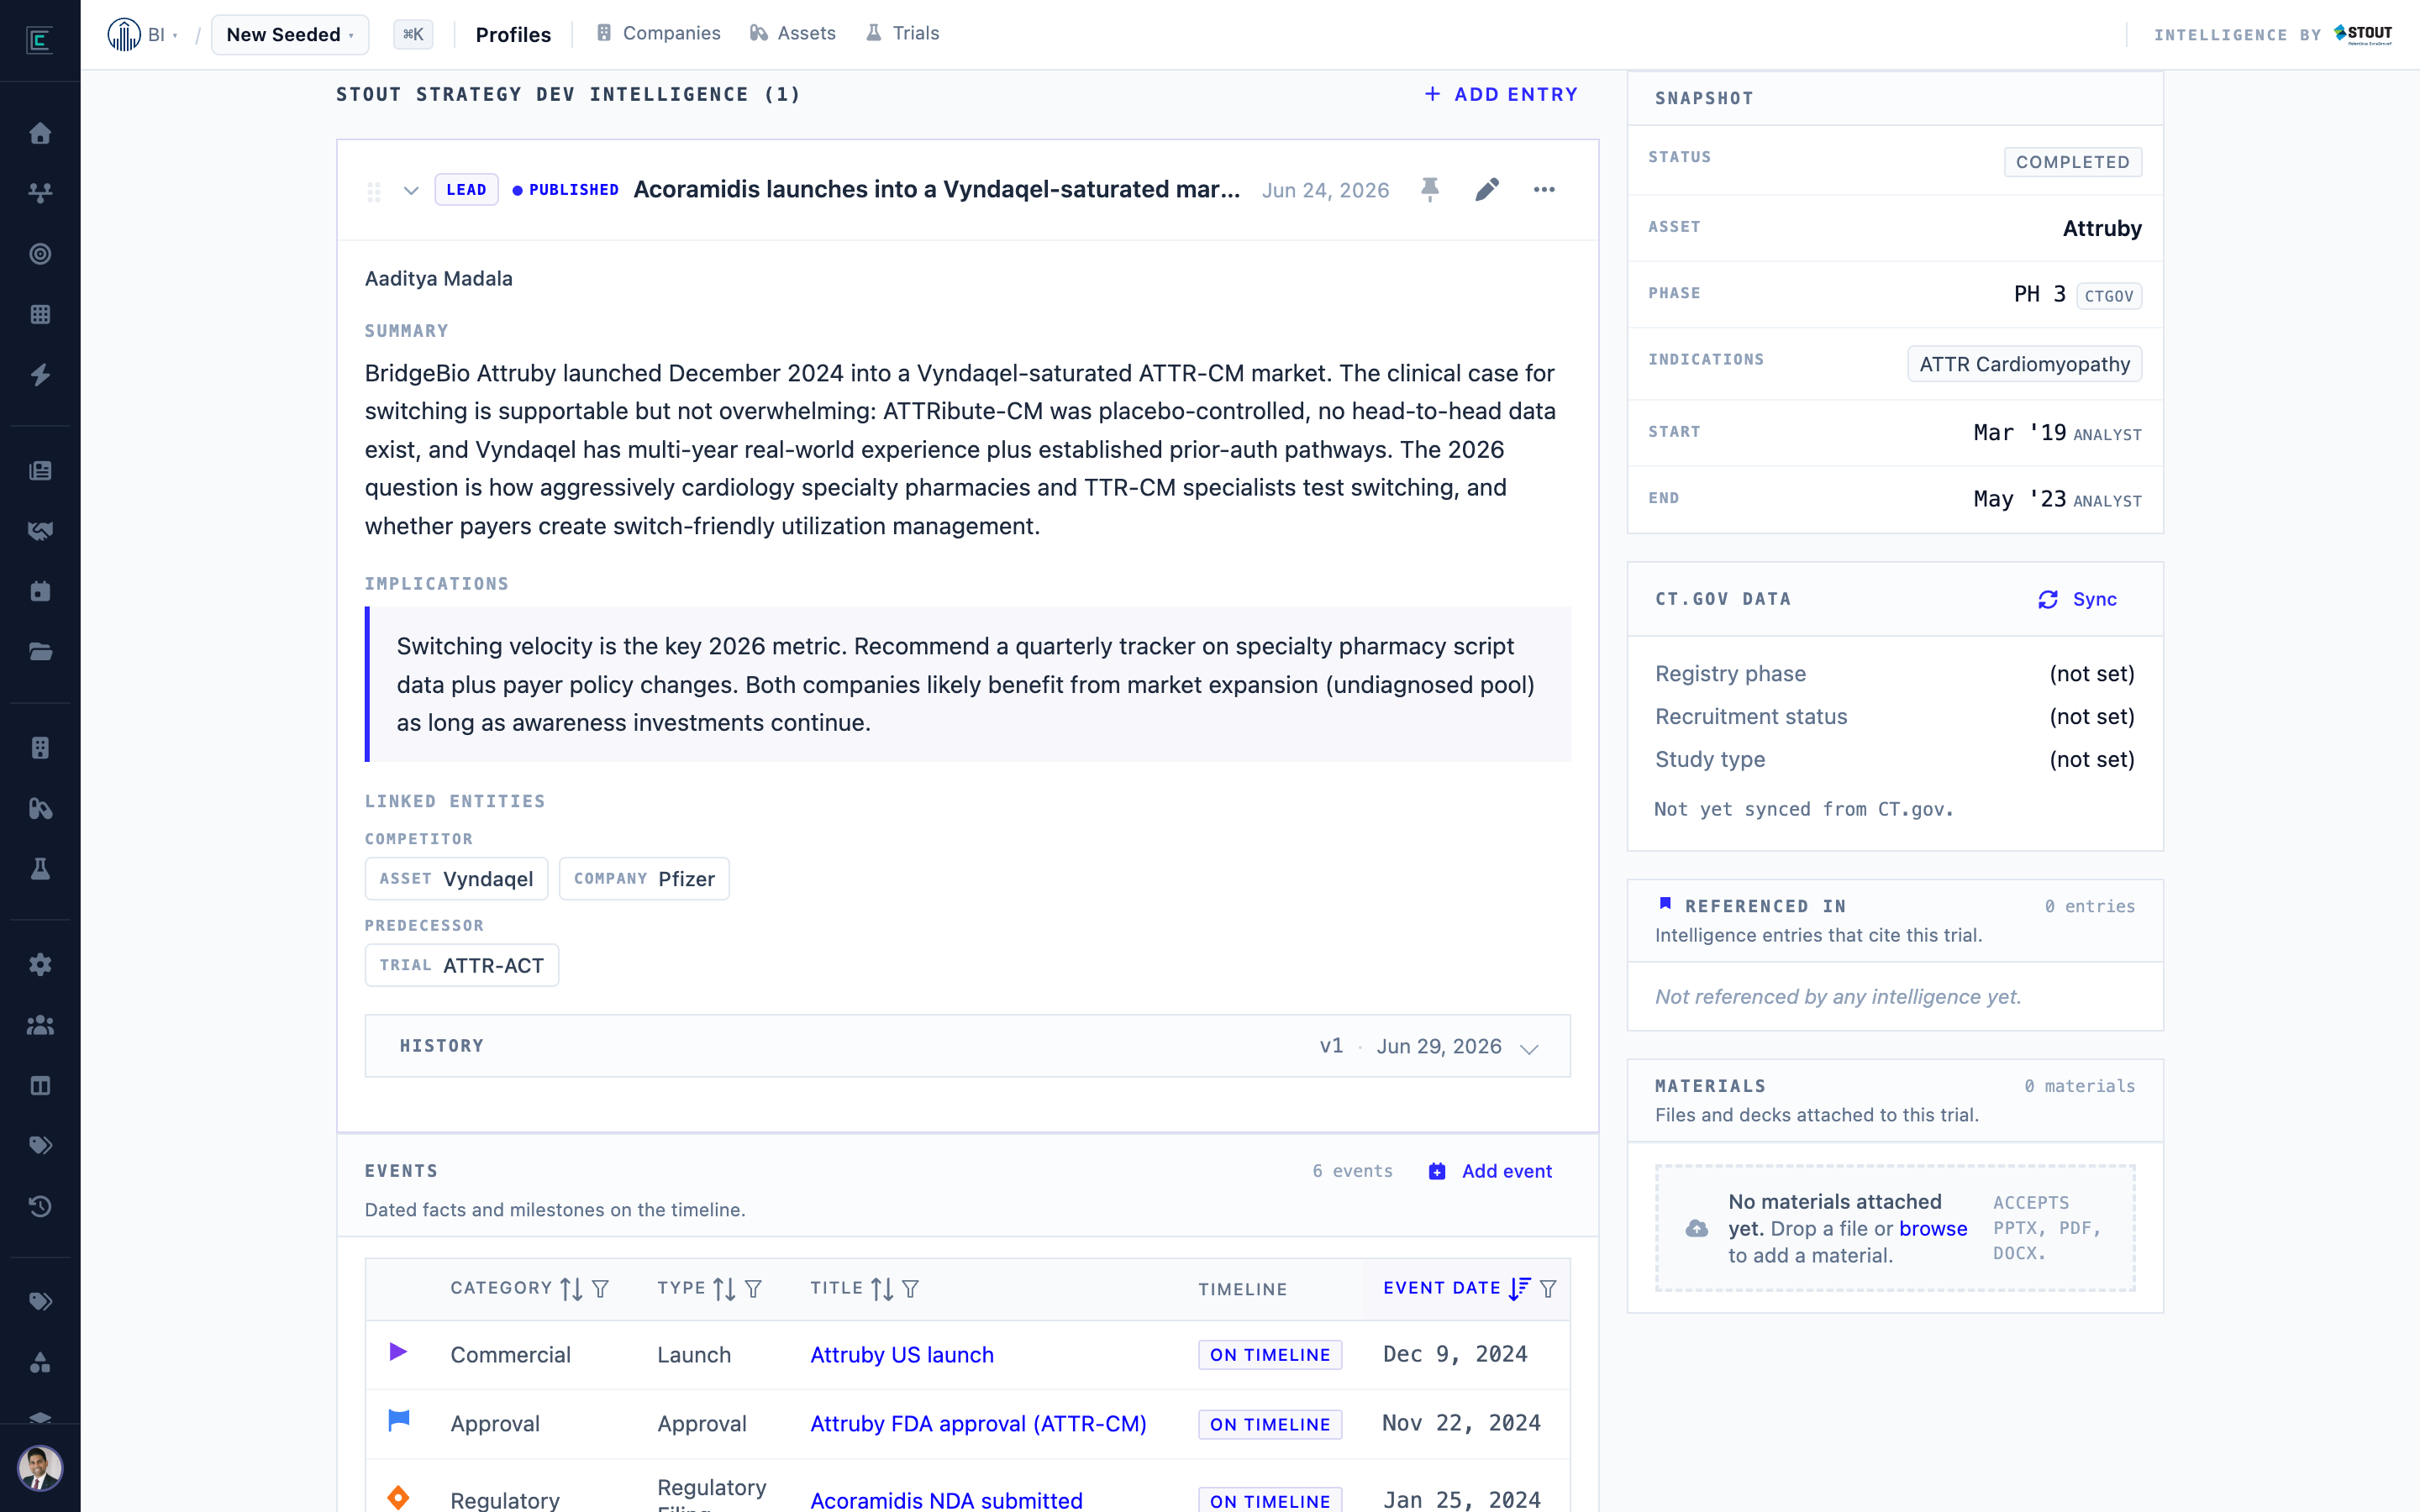
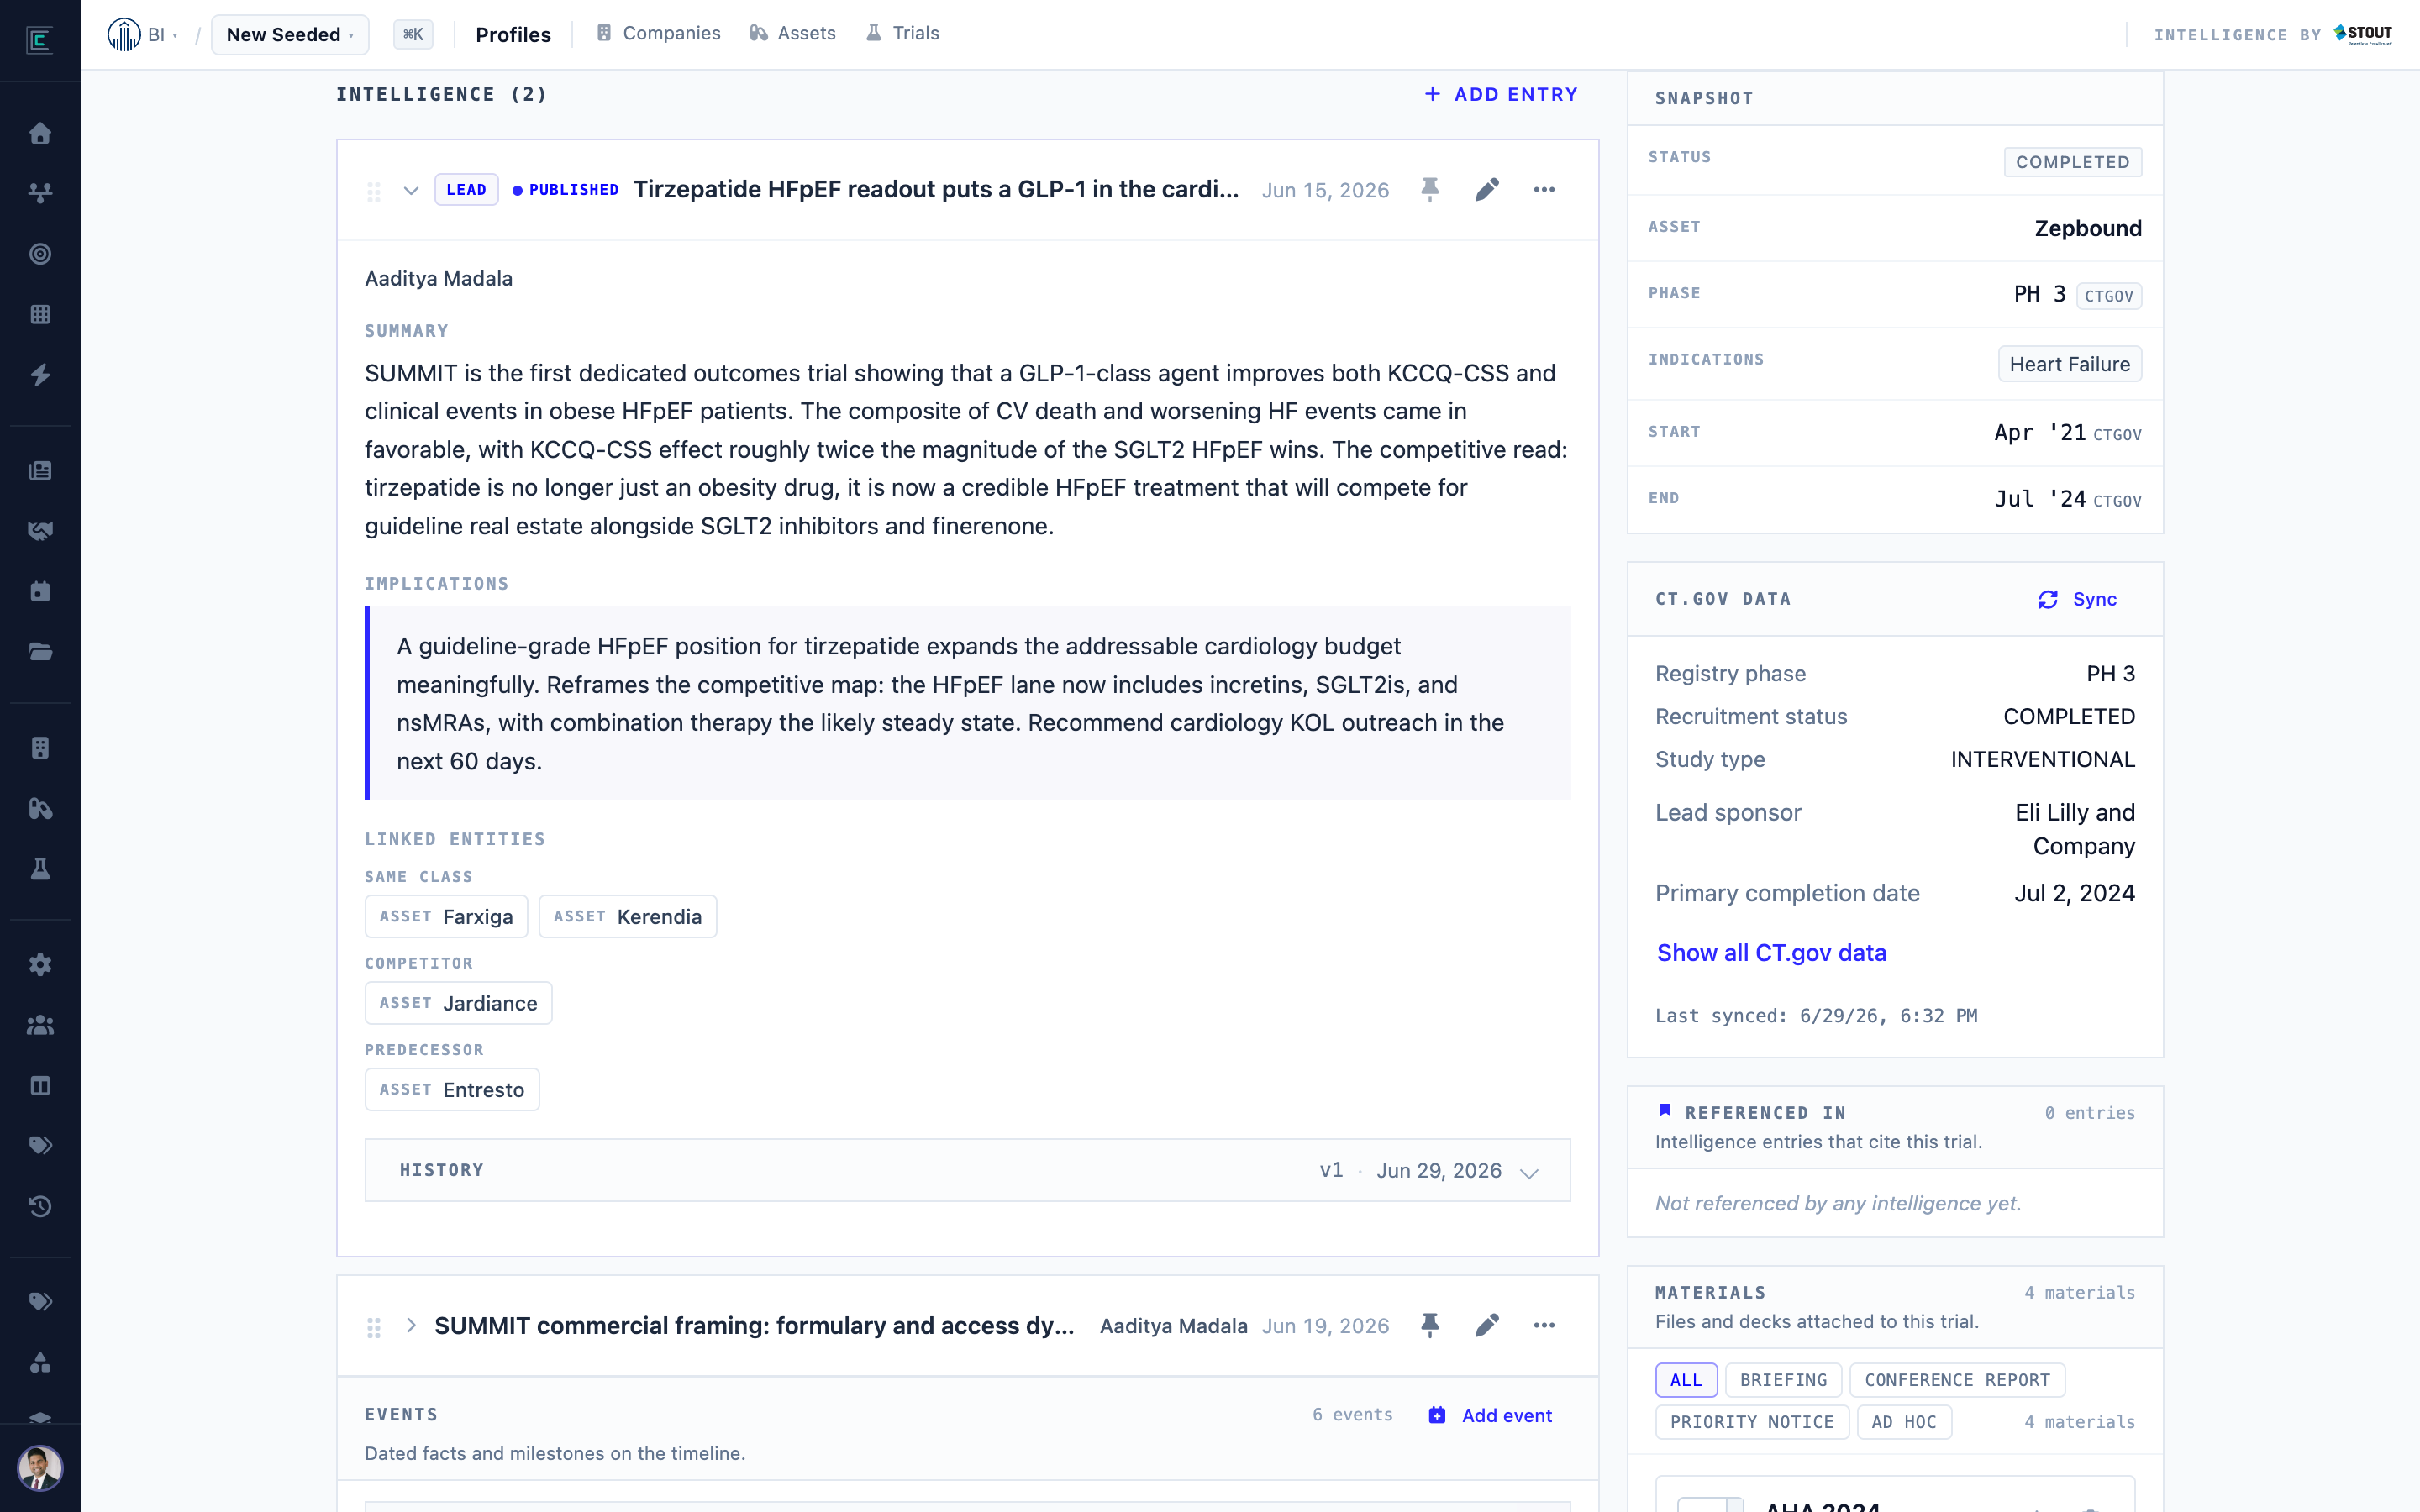
feat(deck): looping roadmap track + richer SUMMIT intelligence hero shot
- Slide 4 roadmap now loops: the near-term track runs through the three nodes,
  turns the corner on the right via a dashed SVG U-curve, and comes back left
  into the "Further out" node. Dash rhythm matches the lines; the line gradient
  is dark green to light green.
- Primary-intelligence shot now pins SUMMIT (NCT04847557): two published reads
  (one LEAD), CT.gov synced (SYNC=1 in the run), and four materials. Captured as
  the authoring account for now (client/viewer byline deferred).

Referenced-in on SUMMIT is still empty (would need another read to cite it).

diff --git a/src/client/public/internal/stout-intro.html b/src/client/public/internal/stout-intro.html
@@ -862,7 +862,7 @@
         right: calc(33.333% - 35px);
         height: 2px;
         z-index: 0;
-        background: linear-gradient(to right, var(--brand-600), var(--slate-200));
+        background: linear-gradient(to right, var(--brand-700), var(--brand-300));
         -webkit-mask-image: repeating-linear-gradient(to right, #000 0 6px, transparent 6px 13px);
         mask-image: repeating-linear-gradient(to right, #000 0 6px, transparent 6px 13px);
       }
@@ -955,11 +955,8 @@
      its own dashed line below the near-term track, so it reads as a parallel
      timeline that continues past the three near-term steps. */
       .roadmap.horizon {
-        margin-top: 24px;
+        margin-top: 26px;
         padding-top: 18px;
-      }
-      .roadmap.horizon .roadmap-line {
-        right: 8px;
       }
       .roadmap.horizon .roadmap-grid {
         grid-template-columns: 1fr;
@@ -972,6 +969,48 @@
       }
       .roadmap.horizon .rm-stage p {
         font-size: 14px;
+      }
+      /* Looping track: the near-term line runs through the three nodes, turns the
+     corner on the right, and comes back left into the horizon node, so the whole
+     thing reads as one continuous path that loops around rather than two separate
+     rows. Tuned for the desktop slide; the dashed line is hidden on mobile, where
+     the roadmap stacks. */
+      .roadmap-loop {
+        position: relative;
+      }
+      .roadmap-loop .loop-top {
+        right: 32px;
+      }
+      .roadmap-loop .loop-top::after {
+        display: none;
+      }
+      /* The corner is an SVG so its dashes match the line rhythm (6/7) and the
+     turn is a smooth rounded U rather than a boxy CSS-border bracket. */
+      .roadmap-loop .loop-turn {
+        position: absolute;
+        right: 8px;
+        top: 28px;
+        width: 24px;
+        height: 236px;
+        z-index: 0;
+        overflow: visible;
+      }
+      .roadmap-loop .loop-bottom {
+        left: 35px;
+        right: 32px;
+      }
+      .roadmap-loop .loop-bottom::after {
+        left: -2px;
+        right: auto;
+        border-top: 0;
+        border-right: 0;
+        border-bottom: 2px solid var(--slate-300);
+        border-left: 2px solid var(--slate-300);
+      }
+      @media (max-width: 768px) {
+        .roadmap-loop .loop-turn {
+          display: none;
+        }
       }
       /* Slide 5 (what changes): a before/after shift table. Each row is one
      dimension of the engagement. The "Without Clint" column recedes in muted
@@ -1685,7 +1724,7 @@
                   onclick="openLightbox(this.querySelector('img'))"
                 >
                   <img
-                    src="img/intelligence.png?v=cb9eb40d2b"
+                    src="img/intelligence.png?v=a02d23c5d8"
                     alt="Primary intelligence on a trial: a published read with its author and the entities it links to, plus a full version history of how it changed. Analysts write it inline and publish under the agency's name."
                   />
                 </button>
@@ -1884,9 +1923,26 @@
             roadmap, and the dataset itself compounds into something bigger over time.
           </p>
           <div class="body">
-            <div class="roadmap">
-              <div class="roadmap-line" aria-hidden="true"></div>
-              <div class="roadmap-grid">
+            <div class="roadmap-loop">
+              <svg
+                class="loop-turn"
+                width="24"
+                height="236"
+                viewBox="0 0 24 236"
+                fill="none"
+                aria-hidden="true"
+              >
+                <path
+                  d="M0 1 H12 Q23 1 23 13 V223 Q23 235 12 235 H0"
+                  stroke="#5eead4"
+                  stroke-width="2"
+                  stroke-dasharray="6 7"
+                  stroke-linecap="round"
+                />
+              </svg>
+              <div class="roadmap">
+                <div class="roadmap-line loop-top" aria-hidden="true"></div>
+                <div class="roadmap-grid">
                 <div class="rm-stage">
                   <div class="rm-marker"><span class="rm-node live"></span></div>
                   <span class="pill brand">Live today</span>
@@ -1917,9 +1973,9 @@
                 </div>
               </div>
             </div>
-            <div class="roadmap horizon">
-              <div class="roadmap-line" aria-hidden="true"></div>
-              <div class="roadmap-grid">
+              <div class="roadmap horizon">
+                <div class="roadmap-line loop-bottom" aria-hidden="true"></div>
+                <div class="roadmap-grid">
                 <div class="rm-stage">
                   <div class="rm-marker"><span class="rm-node"></span></div>
                   <span class="pill">Further out</span>
@@ -1935,6 +1991,7 @@
                   </p>
                 </div>
               </div>
+            </div>
             </div>
           </div>
         </div>
@@ -2200,7 +2257,7 @@
                   onclick="openLightbox(this.querySelector('img'))"
                 >
                   <img
-                    src="img/intelligence.png?v=cb9eb40d2b"
+                    src="img/intelligence.png?v=a02d23c5d8"
                     alt="Primary intelligence on a trial: a published read with its author and the entities it links to, plus a full version history of how it changed. Analysts write it inline and publish under the agency's name."
                   />
                 </button>